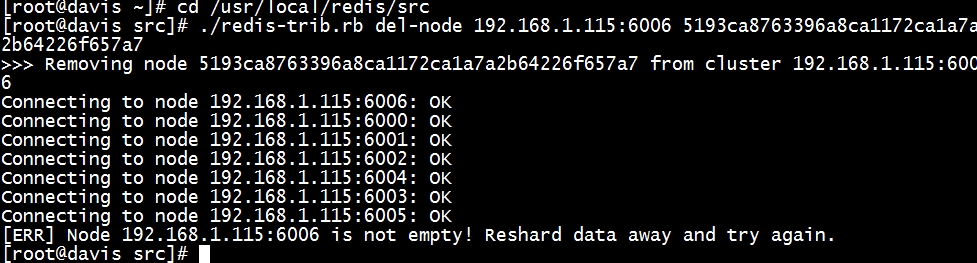
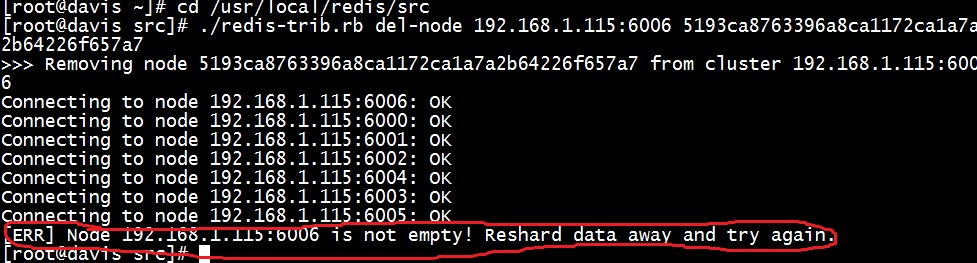
redis集群操作

Changed region(s): [[0.0, 0.8213, 0.8598, 1.0]]

diff --git a/docs/install/rediscluster.md b/docs/install/rediscluster.md
@@ -82,4 +82,15 @@
 2. 删除结点   <br>
    进入redis/src目录下，使用命令 ./redis-trib.rb del-node 192.168.1.115:6006 5193ca8763396a8ca1172ca1a7a2b64226f657a7， 如下图所示。
      ![输入图片说明](https://github.com/yhf56davis/distributed-shopping/blob/master/docs/img/RedisClusterImg/6.jpg)  <br>    
+     此时，出现红圈标注的错误，此时只需将该点拥有的slots全部迁移出去即可。如下二图所示。 <br>
+     执行脚本：./redis-trib.rb reshard 192.168.1.115:6006
+     ![输入图片说明](https://github.com/yhf56davis/distributed-shopping/blob/master/docs/img/RedisClusterImg/7.jpg)  <br>   
+     ![输入图片说明](https://github.com/yhf56davis/distributed-shopping/blob/master/docs/img/RedisClusterImg/8.jpg)  <br>
+     
+     
+     
+     
+     
+     
+      
  
